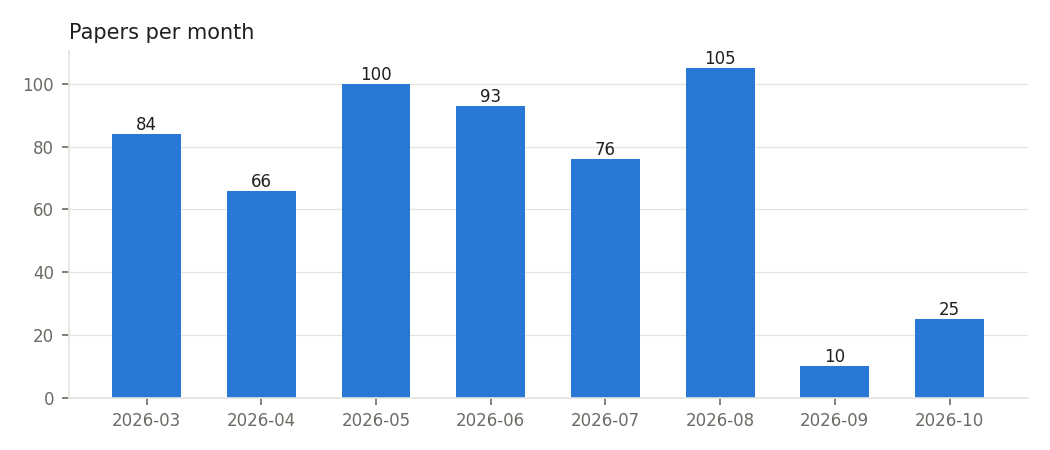
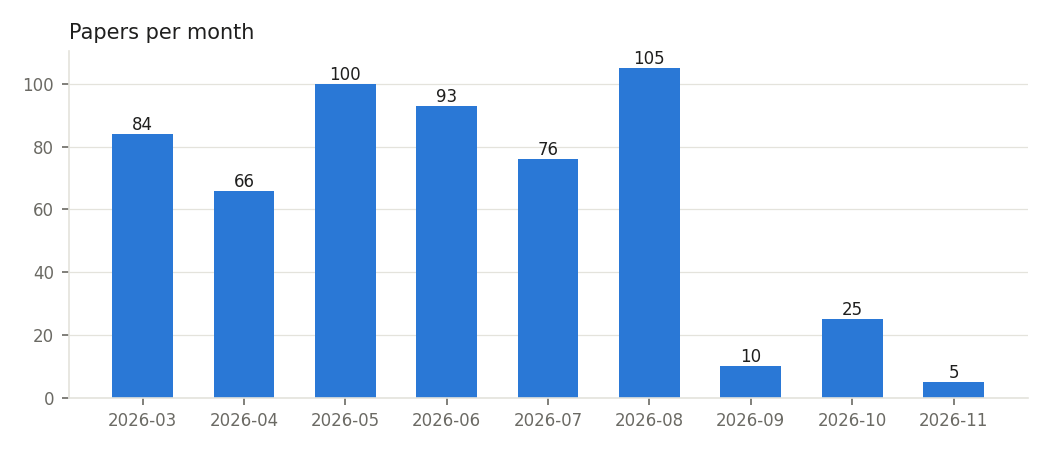
Weekly update: add new papers (2026-11-09)

Changed region(s): [[0.0914, 0.0933, 0.9448, 0.9644]]

diff --git a/outputs/reports/trend_report_keyword.md b/outputs/reports/trend_report_keyword.md
@@ -1,7 +1,7 @@
 # 금융 머신러닝 (Financial Machine Learning) 연구 동향 보고서
 
-- 생성: 2026-11-02 05:36 · 분류 방식: **keyword**
-- 데이터: arXiv API, 2026-03 ~ 2026-10 (8개월), 논문 559건
+- 생성: 2026-11-09 05:50 · 분류 방식: **keyword**
+- 데이터: arXiv API, 2026-03 ~ 2026-11 (9개월), 논문 564건
 - 월별 비중은 LLM 이 아니라 코드로 계산 (해당 월 논문 수 대비 비율)
 
 ## 1. 월별 논문 수
@@ -12,43 +12,43 @@
 
 ![topic share](../figures/topic_share.png)
 
-| 주제 | 논문 수 | 전체 비중 | 26-03 | 26-04 | 26-05 | 26-06 | 26-07 | 26-08 | 26-09 | 26-10 | 전반→후반 (%p) |
-|---|---:|---:|---:|---:|---:|---:|---:|---:|---:|---:|---:|
-| 포트폴리오·자산배분 | 120 | 21.5% | 20% | 23% | 18% | 20% | 24% | 25% | 20% | 20% | +3.5 |
-| 수익률·가격 예측 | 96 | 17.2% | 20% | 15% | 26% | 16% | 8% | 15% | 20% | 16% | -6.9 |
-| 금융 텍스트·감성·대체데이터 | 92 | 16.5% | 11% | 17% | 16% | 15% | 22% | 17% | 20% | 20% | +4.9 |
-| 트레이딩·시장 미시구조 | 49 | 8.8% | 8% | 3% | 7% | 11% | 12% | 10% | 10% | 12% | +3.1 |
-| 기타 | 42 | 7.5% | 10% | 8% | 6% | 6% | 9% | 6% | 10% | 12% | +0.6 |
-| 신용·사기탐지·은행 | 41 | 7.3% | 12% | 5% | 8% | 9% | 3% | 9% | 10% | 0% | -2.9 |
-| 파생상품 가격결정·헤징 | 34 | 6.1% | 6% | 6% | 4% | 6% | 9% | 5% | 0% | 12% | +1.4 |
-| 리스크·변동성 | 33 | 5.9% | 4% | 11% | 7% | 6% | 8% | 3% | 0% | 4% | -2.1 |
-| 암호화폐·DeFi | 28 | 5.0% | 5% | 8% | 2% | 5% | 3% | 9% | 0% | 4% | +0.9 |
-| 자산가격결정·팩터 | 18 | 3.2% | 4% | 6% | 3% | 4% | 1% | 2% | 10% | 0% | -2.2 |
-| 거시경제·정책 | 6 | 1.1% | 1% | 0% | 3% | 0% | 1% | 1% | 0% | 0% | -0.2 |
+| 주제 | 논문 수 | 전체 비중 | 26-03 | 26-04 | 26-05 | 26-06 | 26-07 | 26-08 | 26-09 | 26-10 | 26-11 | 전반→후반 (%p) |
+|---|---:|---:|---:|---:|---:|---:|---:|---:|---:|---:|---:|---:|
+| 포트폴리오·자산배분 | 121 | 21.5% | 20% | 23% | 18% | 20% | 24% | 25% | 20% | 20% | 20% | +3.4 |
+| 수익률·가격 예측 | 98 | 17.4% | 20% | 15% | 26% | 16% | 8% | 15% | 20% | 16% | 40% | -6.3 |
+| 금융 텍스트·감성·대체데이터 | 92 | 16.3% | 11% | 17% | 16% | 15% | 22% | 17% | 20% | 20% | 0% | +4.4 |
+| 트레이딩·시장 미시구조 | 51 | 9.0% | 8% | 3% | 7% | 11% | 12% | 10% | 10% | 12% | 40% | +3.7 |
+| 기타 | 42 | 7.4% | 10% | 8% | 6% | 6% | 9% | 6% | 10% | 12% | 0% | +0.4 |
+| 신용·사기탐지·은행 | 41 | 7.3% | 12% | 5% | 8% | 9% | 3% | 9% | 10% | 0% | 0% | -3.0 |
+| 파생상품 가격결정·헤징 | 34 | 6.0% | 6% | 6% | 4% | 6% | 9% | 5% | 0% | 12% | 0% | +1.2 |
+| 리스크·변동성 | 33 | 5.9% | 4% | 11% | 7% | 6% | 8% | 3% | 0% | 4% | 0% | -2.2 |
+| 암호화폐·DeFi | 28 | 5.0% | 5% | 8% | 2% | 5% | 3% | 9% | 0% | 4% | 0% | +0.8 |
+| 자산가격결정·팩터 | 18 | 3.2% | 4% | 6% | 3% | 4% | 1% | 2% | 10% | 0% | 0% | -2.3 |
+| 거시경제·정책 | 6 | 1.1% | 1% | 0% | 3% | 0% | 1% | 1% | 0% | 0% | 0% | -0.3 |
 
-> ⚠ 논문이 30건 미만인 달은 비중이 크게 흔들리므로 해석에 주의: 2026-09 (10건), 2026-10 (25건)
+> ⚠ 논문이 30건 미만인 달은 비중이 크게 흔들리므로 해석에 주의: 2026-09 (10건), 2026-10 (25건), 2026-11 (5건)
 
 ## 3. 증가·감소 주제
 
-**증가**: 금융 텍스트·감성·대체데이터 (+4.9%p, 기울기 +1.10%p/월), 포트폴리오·자산배분 (+3.5%p, 기울기 +0.10%p/월), 트레이딩·시장 미시구조 (+3.1%p, 기울기 +0.82%p/월)
+**증가**: 금융 텍스트·감성·대체데이터 (+4.4%p, 기울기 -0.38%p/월), 트레이딩·시장 미시구조 (+3.7%p, 기울기 +2.64%p/월), 포트폴리오·자산배분 (+3.4%p, 기울기 -0.01%p/월)
 
-**감소**: 수익률·가격 예측 (-6.9%p, 기울기 -0.55%p/월), 신용·사기탐지·은행 (-2.9%p, 기울기 -0.72%p/월), 자산가격결정·팩터 (-2.2%p, 기울기 -0.14%p/월)
+**감소**: 수익률·가격 예측 (-6.3%p, 기울기 +1.15%p/월), 신용·사기탐지·은행 (-3.0%p, 기울기 -0.95%p/월), 자산가격결정·팩터 (-2.3%p, 기울기 -0.35%p/월)
 
 ## 4. 주제별 요약과 근거 논문
 
-### 포트폴리오·자산배분 (120건)
+### 포트폴리오·자산배분 (121건)
 
 근거 논문:
-- (2026-10) [AlphaLedger: Portfolio-Grounded On-Policy Distillation for Regime-Aware Alpha Mining](http://arxiv.org/abs/2610.23744v1)
 - (2026-10) [Causal Value Attribution of Marketing Labels in LLM-Generated Ads: A Deconfounder Approach](http://arxiv.org/abs/2610.23025v1)
 - (2026-10) [FARO: Function-Space Adaptive Return-to-Risk Optimization via Cross-Block Equal-Risk-Contribution Budget Allocation](http://arxiv.org/abs/2610.40858v1)
+- (2026-11) [StockASkill: A Local-First AgentSkill for Intelligent Stock Selection](http://arxiv.org/abs/2611.09528v1)
 
-### 수익률·가격 예측 (96건)
+### 수익률·가격 예측 (98건)
 
 근거 논문:
-- (2026-10) [OrderFlowDiT: Transport-Regularized Diffusion Transformer for Probabilistic Limit-Order Supply Forecasting](http://arxiv.org/abs/2610.22727v1)
-- (2026-10) [QBX: A Compiler for Well-Formed, Auditable Alpha Programs](http://arxiv.org/abs/2610.41689v1)
 - (2026-10) [Conditional Neural SDEs for Financial Time-Series Generation](http://arxiv.org/abs/2610.41405v1)
+- (2026-11) [Neural Realized Measures: Forecast-Supervised Intraday Aggregation for Volatility Forecasting](http://arxiv.org/abs/2611.07287v1)
+- (2026-11) [TailDART: Compute-Efficient Foundation Models for Financial Time-Series Forecasting](http://arxiv.org/abs/2611.09176v1)
 
 ### 금융 텍스트·감성·대체데이터 (92건)
 
@@ -57,12 +57,12 @@
 - (2026-10) [When News Gets Old: Portfolio Allocation with Reinforcement Learning and Large Language Models](http://arxiv.org/abs/2610.30564v1)
 - (2026-10) [Governed Self-Evolution for Autonomous Investing: A Multi-Agent LLM System with an Invariant Core](http://arxiv.org/abs/2610.30557v1)
 
-### 트레이딩·시장 미시구조 (49건)
+### 트레이딩·시장 미시구조 (51건)
 
 근거 논문:
-- (2026-10) [When a Correct Reward Is Not Enough: Diagnosing and Guiding PPO in an Analytically Solved Broker-Trader Game](http://arxiv.org/abs/2610.03598v1)
-- (2026-10) [Market Impact Estimation via Causal Foundation Models](http://arxiv.org/abs/2610.12537v1)
 - (2026-10) [Financial Context-Rich Strategy for Actor-Critic based Agents: A Deep Reinforcement Learning Approach for Stock Trading](http://arxiv.org/abs/2610.32237v1)
+- (2026-11) [Does a Trading Policy Need to Know What It Trades? Microstructure Invariance and Zero-Shot Transfer of Execution Policies](http://arxiv.org/abs/2611.08701v1)
+- (2026-11) [Towards Robust Reinforcement Learning Market Making: Lessons from Loss Function Experimentation](http://arxiv.org/abs/2611.09012v1)
 
 ### 기타 (42건)
 
@@ -117,12 +117,12 @@
 
 ![method share](../figures/method_share.png)
 
-| 방법론 | 26-03 | 26-04 | 26-05 | 26-06 | 26-07 | 26-08 | 26-09 | 26-10 |
-|---|---:|---:|---:|---:|---:|---:|---:|---:|
-| 전통 ML(트리·선형·SVM) | 5% | 5% | 4% | 3% | 8% | 9% | 0% | 0% |
-| 딥러닝 시계열(Transformer·RNN 등) | 30% | 29% | 26% | 19% | 30% | 17% | 10% | 28% |
-| 생성모델(Diffusion·GAN·VAE) | 5% | 5% | 5% | 6% | 0% | 3% | 10% | 0% |
-| 그래프 신경망 | 2% | 0% | 0% | 0% | 3% | 1% | 0% | 0% |
-| LLM·생성형 에이전트 | 37% | 48% | 51% | 54% | 41% | 53% | 70% | 56% |
-| 기타/통계·이론 | 14% | 6% | 8% | 6% | 7% | 10% | 10% | 4% |
-| 강화학습 | 7% | 8% | 6% | 11% | 12% | 8% | 0% | 12% |
+| 방법론 | 26-03 | 26-04 | 26-05 | 26-06 | 26-07 | 26-08 | 26-09 | 26-10 | 26-11 |
+|---|---:|---:|---:|---:|---:|---:|---:|---:|---:|
+| 전통 ML(트리·선형·SVM) | 5% | 5% | 4% | 3% | 8% | 9% | 0% | 0% | 0% |
+| 딥러닝 시계열(Transformer·RNN 등) | 30% | 29% | 26% | 19% | 30% | 17% | 10% | 28% | 20% |
+| 생성모델(Diffusion·GAN·VAE) | 5% | 5% | 5% | 6% | 0% | 3% | 10% | 0% | 0% |
+| 그래프 신경망 | 2% | 0% | 0% | 0% | 3% | 1% | 0% | 0% | 0% |
+| LLM·생성형 에이전트 | 37% | 48% | 51% | 54% | 41% | 53% | 70% | 56% | 20% |
+| 기타/통계·이론 | 14% | 6% | 8% | 6% | 7% | 10% | 10% | 4% | 20% |
+| 강화학습 | 7% | 8% | 6% | 11% | 12% | 8% | 0% | 12% | 40% |
